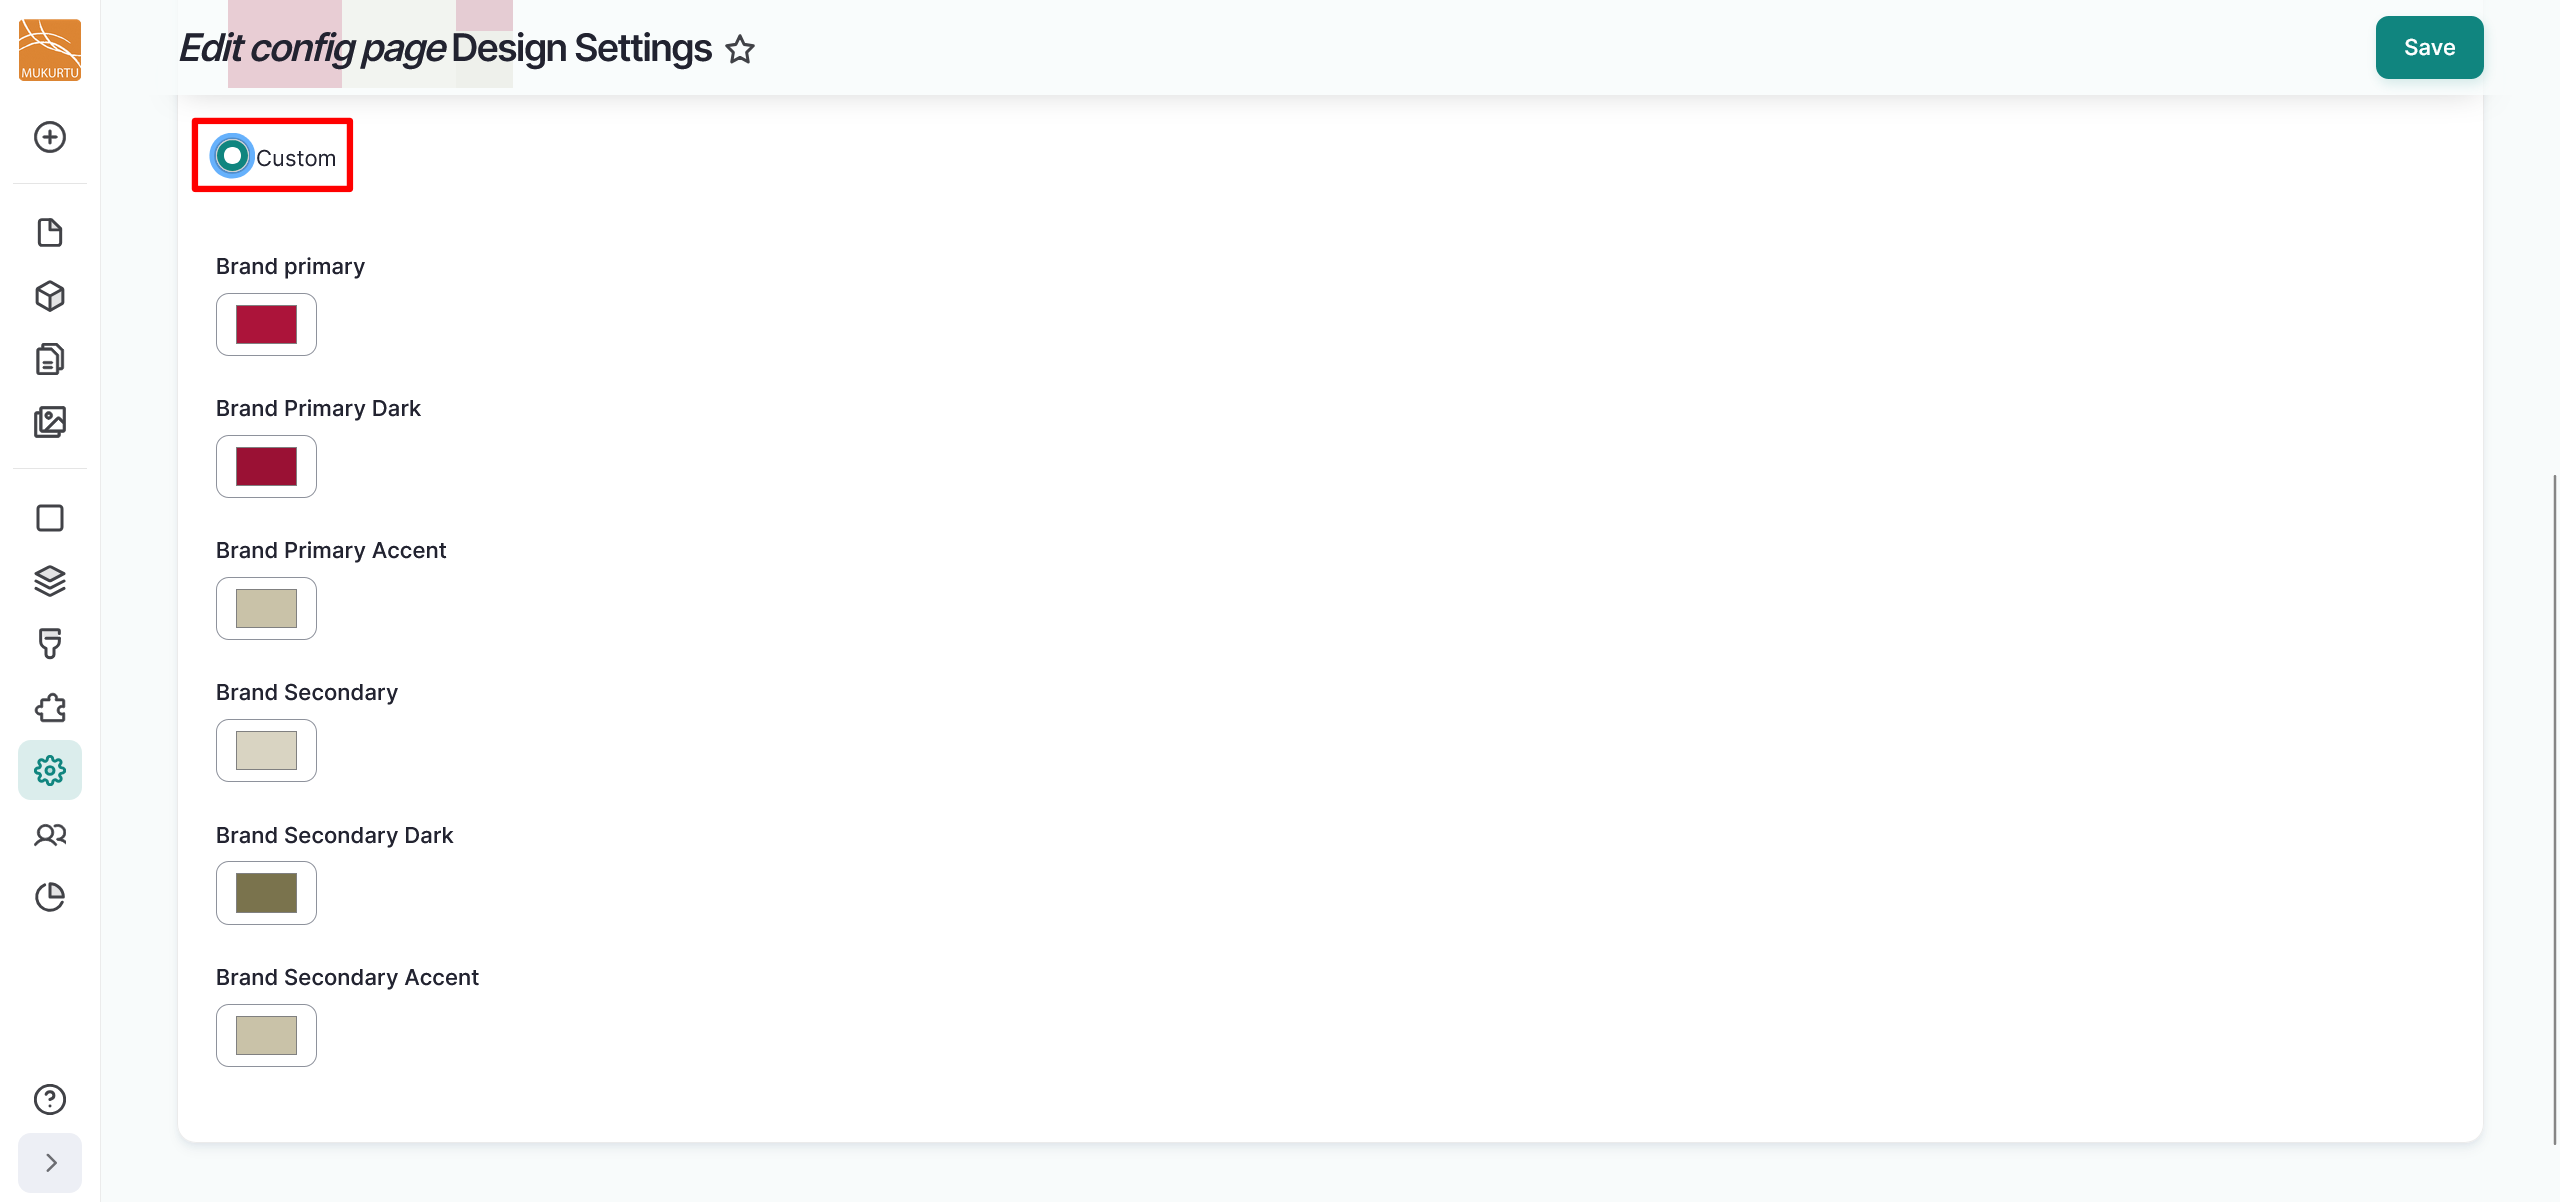
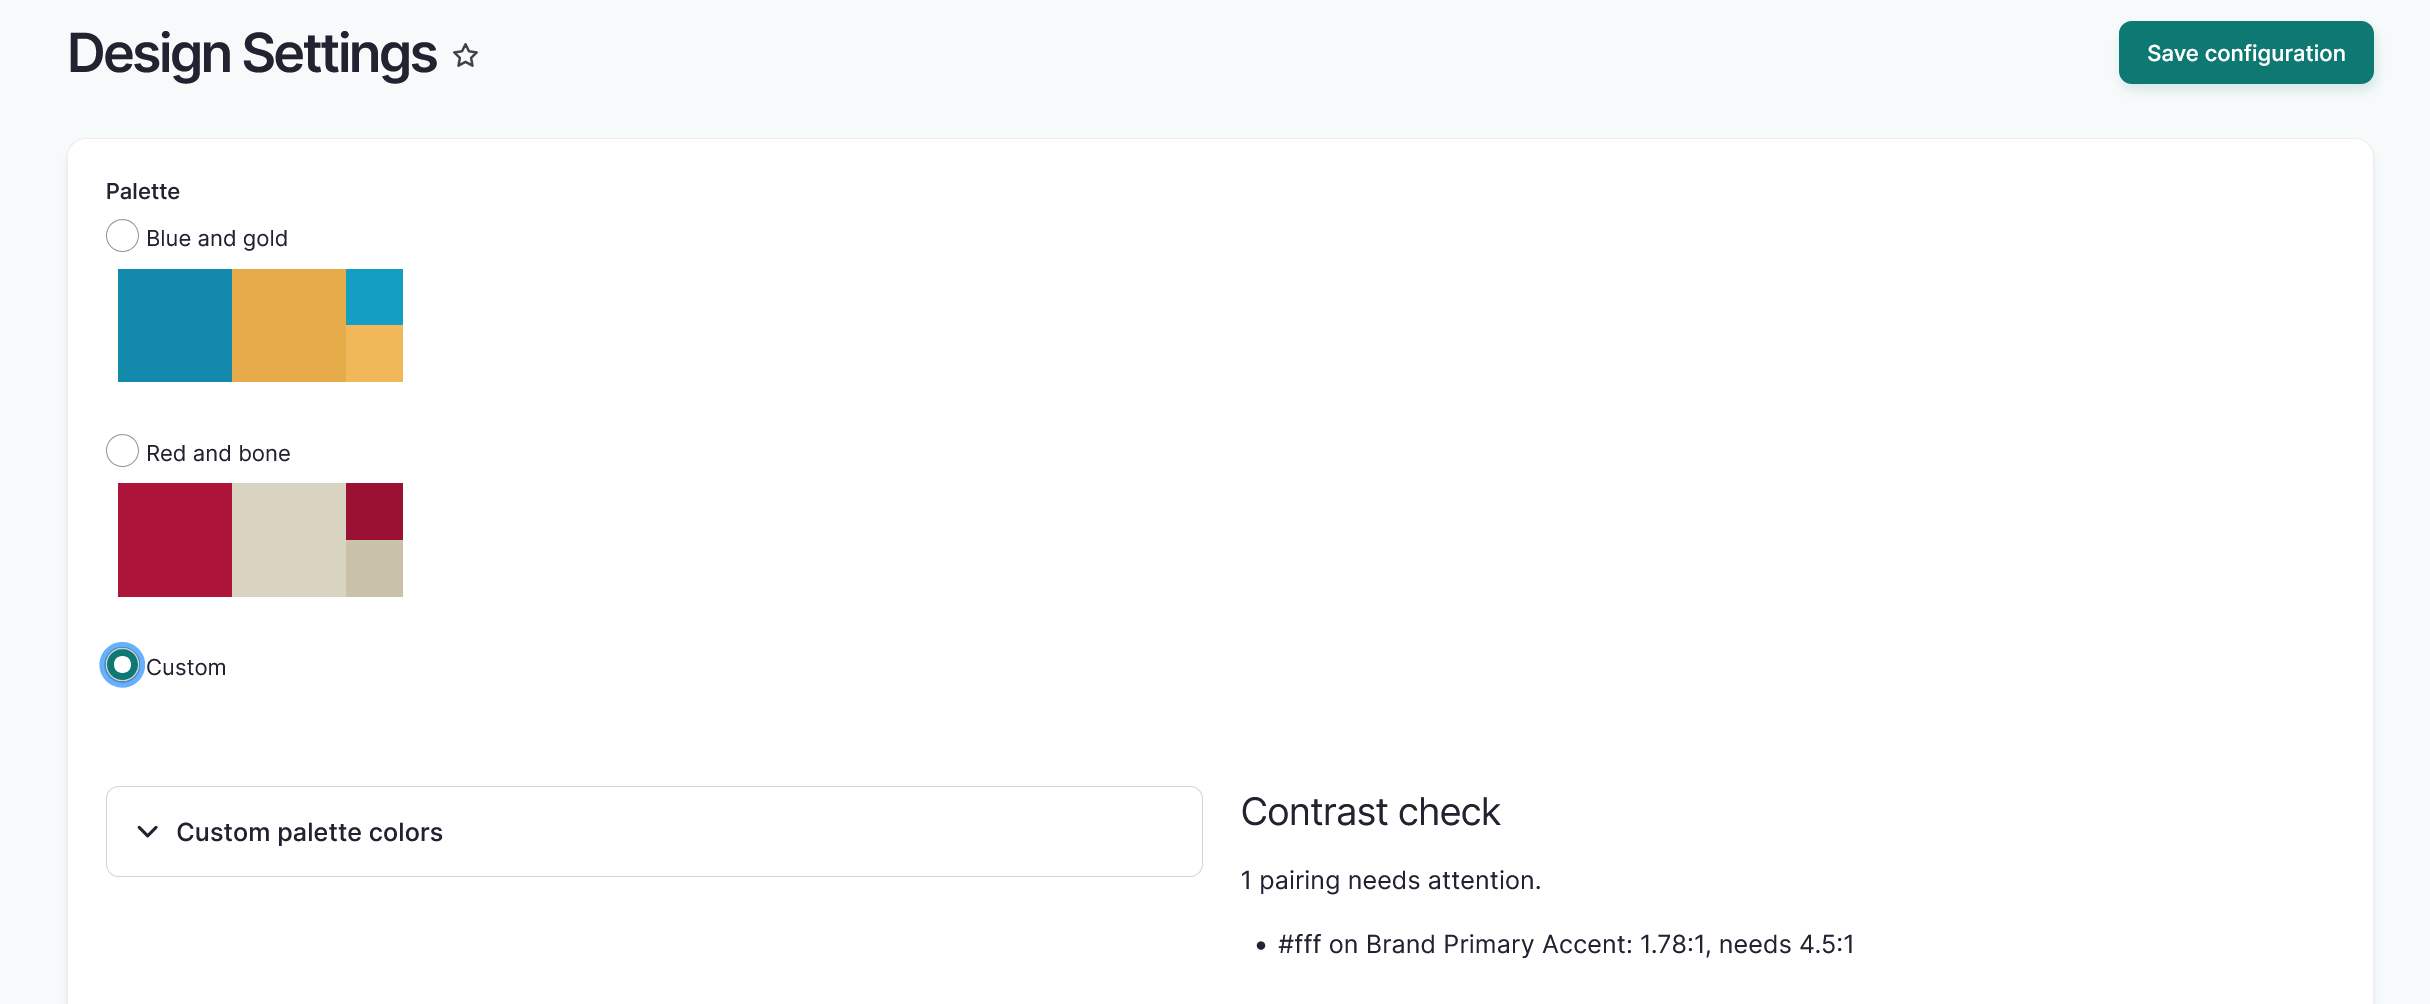
Design settings updates

diff --git a/docs/look-and-feel/ConfigureColors.md b/docs/look-and-feel/ConfigureColors.md
@@ -4,16 +4,18 @@ tags:
     - look and feel
 ---
 
-# Configure Color Settings
+# Configure Design Settings
 
 !!! roles "User roles"
     Administrator, Mukurtu manager
 
-Mukurtu includes two stock color palettes: Blue and Gold and Red and Bone. There is also an experimental palette customizer that allows you to configure custom colors. You can configure your color palette settings in the **Dashboard** by navigating to **Look and Feel** and selecting the **Color settings** link.
+## Configure color settings
 
-![Screenshot of the dashboard with the color settings link highlighted.](../_embeds/color1.png)
+Mukurtu includes two stock color palettes: Blue and Gold and Red and Bone. There is also an experimental palette customizer that allows you to configure custom colors. You can configure your color palette settings in the **Dashboard** by navigating to **Look and Feel** and selecting the **Design settings** link.
 
-## Select preconfigured colors
+![Screenshot of the dashboard with the design settings link highlighted.](../_embeds/color1.png)
+
+### Select preconfigured colors
 
 1. Select the radio button to the left of the **Blue Gold** or **Red Bone** palette.
 
@@ -23,30 +25,22 @@ Mukurtu includes two stock color palettes: Blue and Gold and Red and Bone. There
 
     ![Screenshot of the edit config page design settings with the blue gold color palette selected and the save button highlighted.](../_embeds/color8.png)
 
-## Configure the custom palette
+### Configure the custom palette
 
 Please note, this is an experimental tool. Our stock palettes are selected to meet accessibility requirements and custom color selection is not covered by our tests. For more control over the colors, consider implementing a subtheme.
 
 1. Select the **Custom** radio button.
 
+    !!! tip
+        Users receive a warning if their selected custom color selection fails accessibility contrast checks.
+
     ![Screenshot of the custom radio button selected.](../_embeds/color3.png)
 
 2. Select the color selector for the colors you want to edit. 
 
-    ![Screenshot of the color selector button for the Brand Primary color highlighted with the Color module to the right.](../_embeds/color4.png)
+    ![Screenshot of the color selector button for the Brand Primary Accent color highlighted with the Color module below.](../_embeds/color4.png)
 
-3. Use the Color modal to select the color you want to apply. You can select from basic colors or add custom colors.
-4. Select a basic color using the **Basic Colors** section of the modal.
-5. To select a custom color, use the color selector on the right-hand side of the modal. You can use the *HSL* (*Hue Sat Lum*) or the *RGB* (*Red Green Blue*) fields to specify colors. 
-
-    - To save a custom color, select a blank **Custom colors** box before you input your custom color on the right. Select "Add to Custom Colors" to add the color to your custom colors.
-
-    ![Screenshot of the color modal with the add to custom colors button highlighted.](../_embeds/color5.png)
-
-6. Select the "Ok" button to apply your chosen color to your custom palette. 
-
-    ![Screenshot of the color modal with the ok button highlighted.](../_embeds/color6.png)
-
-7. Select the "Save" button to apply your color palette site-wide.
+3. Use the Color modal to select the color you want to apply. You can also use *HEX*, *HSL* (*Hue Sat Lum*), or *RGB* (*Red Green Blue*) codes to specify colors. 
+4. Select the "Save" button to apply your color palette site-wide.
 
     ![Screenshot of the edit config page design settings with the save button highlighted.](../_embeds/color7.png)
